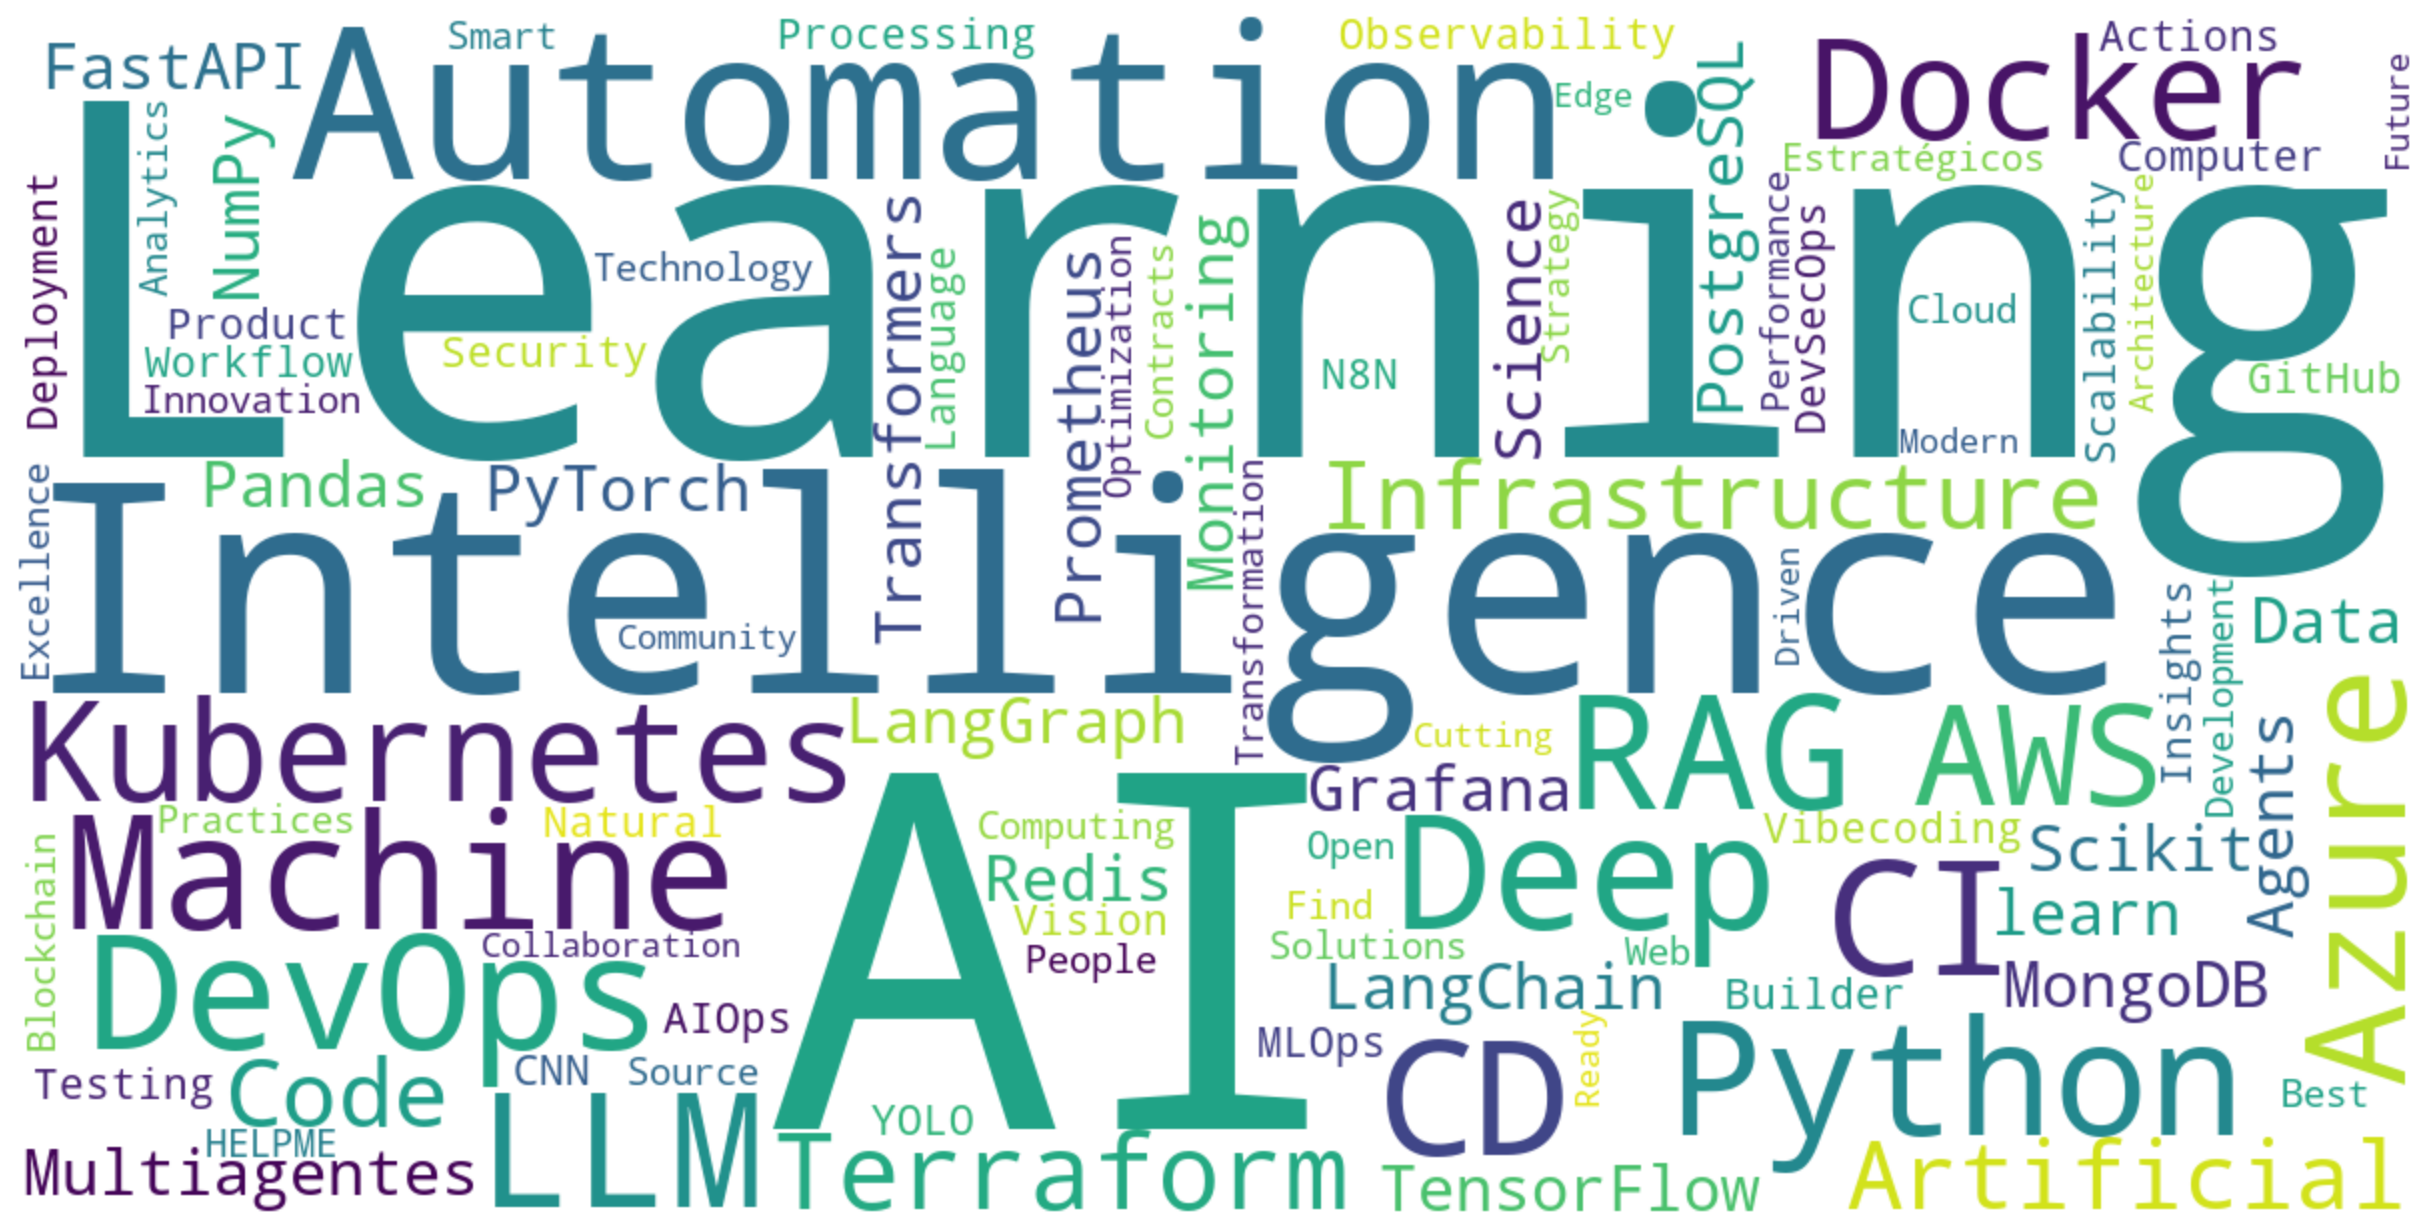
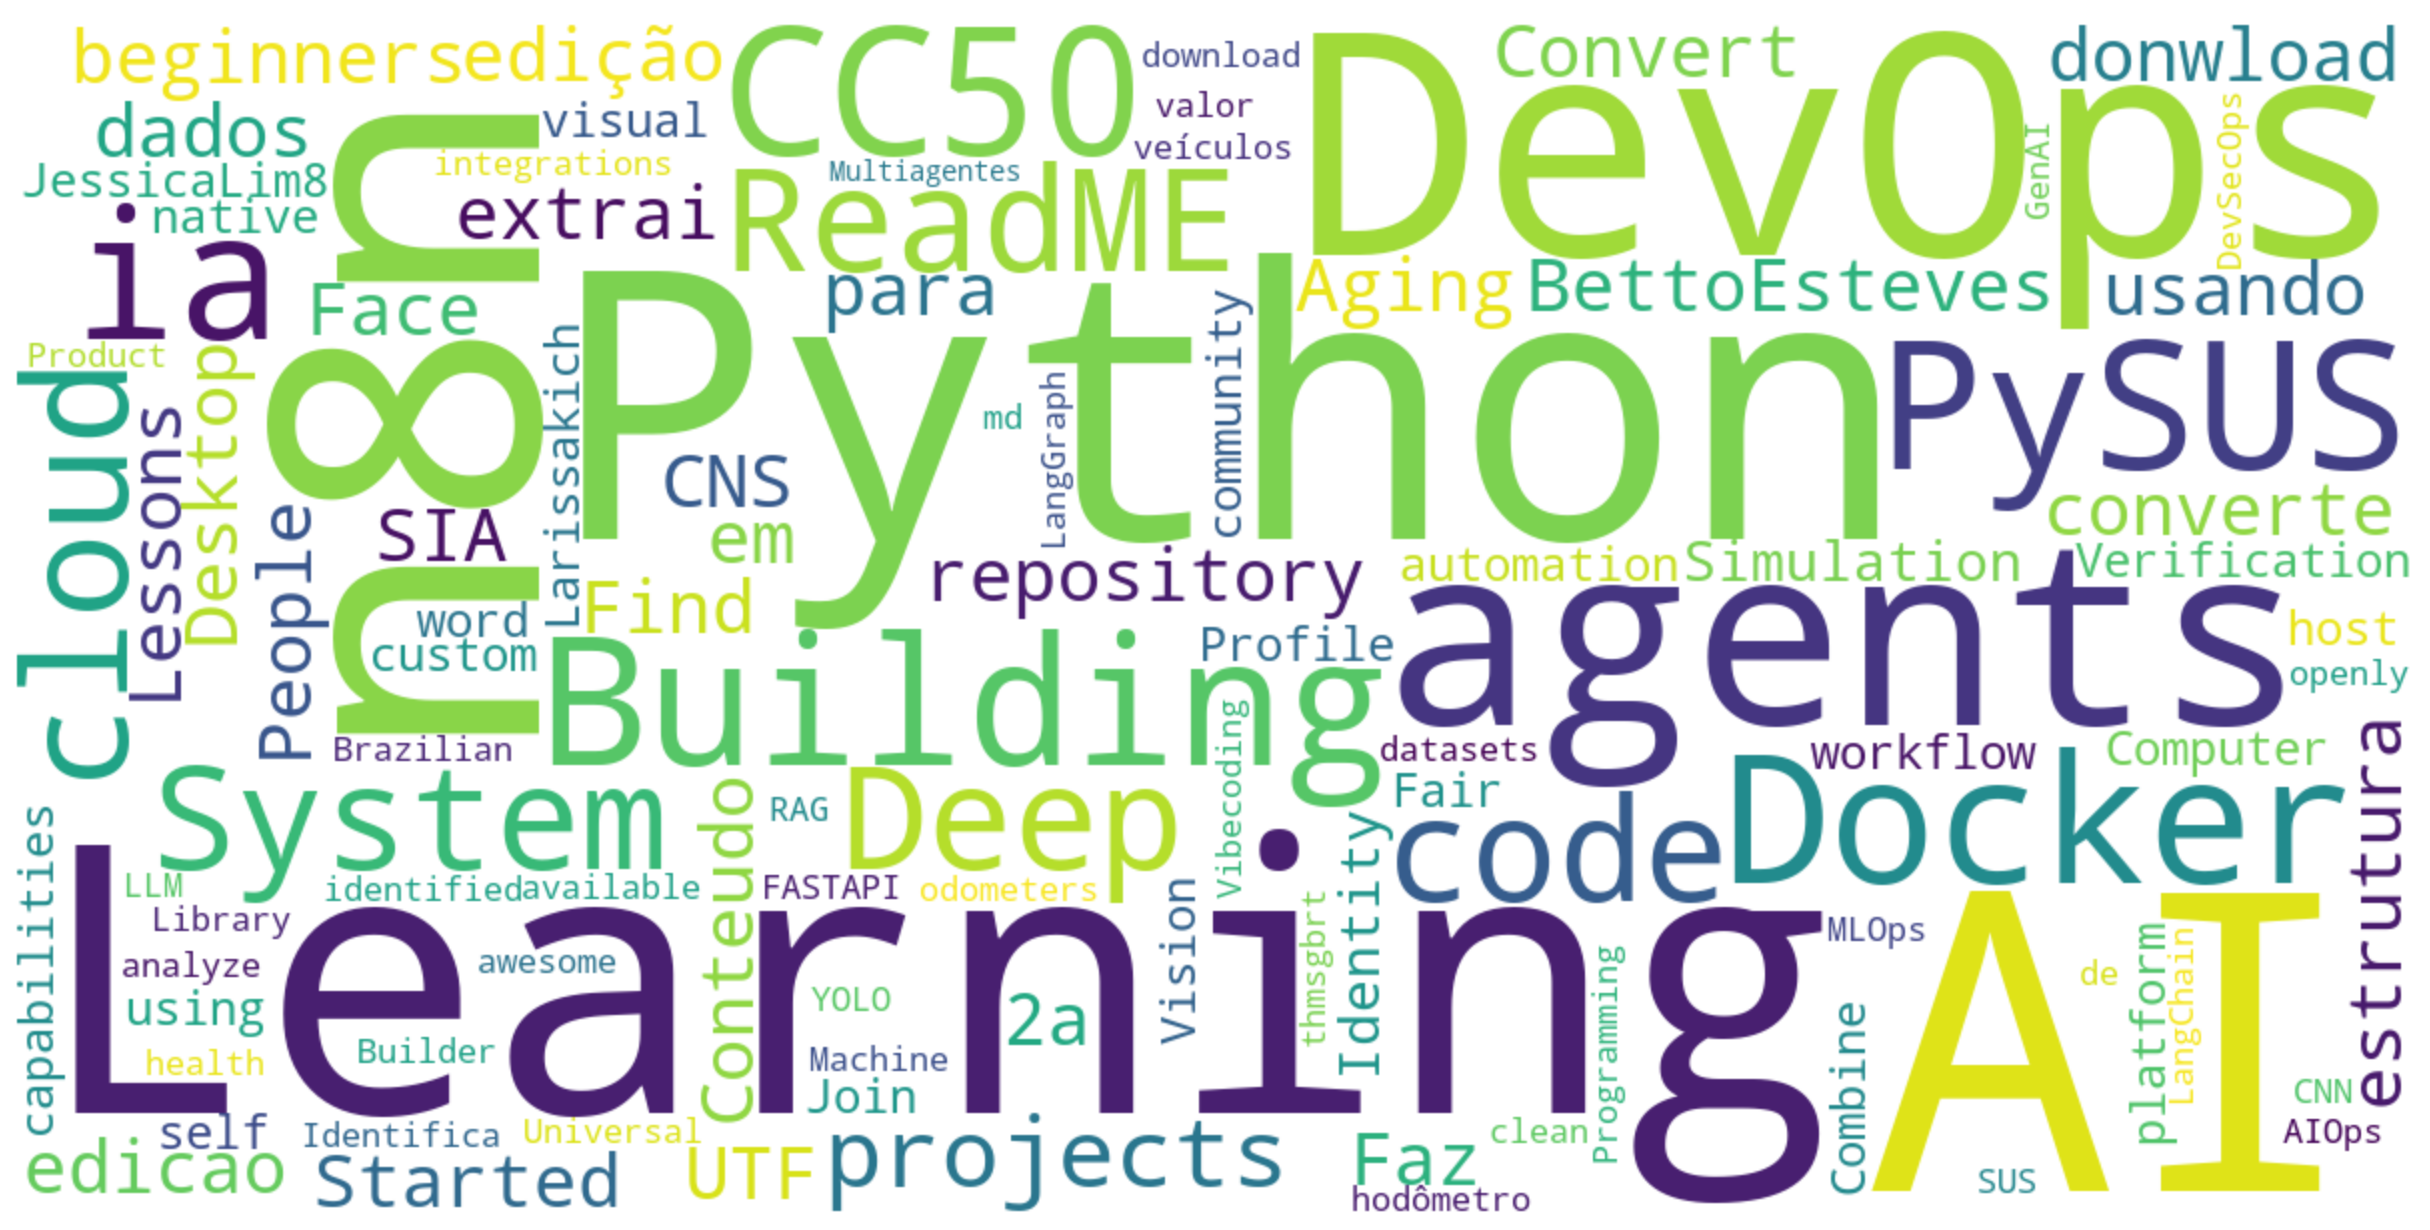
🤖 Script automático: word cloud dos repositórios públicos do GitHub

diff --git a/generate_github_wordcloud.py b/generate_github_wordcloud.py
@@ -1,0 +1,59 @@
+#!/usr/bin/env python3
+"""
+Gera uma word cloud com palavras-chave dos repositórios públicos do GitHub do usuário BettoEsteves.
+Busca nome, descrição, tópicos e linguagem de cada repositório.
+Salva a imagem em wordcloud/wordcloud.png no estilo do exemplo fornecido.
+"""
+import requests
+import os
+from wordcloud import WordCloud
+import matplotlib.pyplot as plt
+
+GITHUB_USER = "BettoEsteves"
+API_URL = f"https://api.github.com/users/{GITHUB_USER}/repos?per_page=100"
+
+# Buscar repositórios
+resp = requests.get(API_URL)
+repos = resp.json()
+
+keywords = []
+for repo in repos:
+    # Nome e descrição
+    if repo.get('name'): keywords.extend(repo['name'].split('-'))
+    if repo.get('description'): keywords.extend(repo['description'].split())
+    # Linguagem
+    if repo.get('language'): keywords.append(repo['language'])
+    # Tópicos (precisa de API extra, mas tentamos)
+    topics_url = repo.get('topics_url') or f"https://api.github.com/repos/{GITHUB_USER}/{repo['name']}/topics"
+    topics_resp = requests.get(topics_url, headers={"Accept": "application/vnd.github.mercy-preview+json"})
+    if topics_resp.status_code == 200:
+        topics = topics_resp.json().get('names', [])
+        keywords.extend(topics)
+
+# Palavras-chave extras para garantir destaque
+keywords.extend([
+    "AI", "GenAI", "LLM", "FASTAPI", "LangChain", "LangGraph", "CNN", "YOLO", "N8N", "Vibecoding", "AI Product Builder",
+    "Python", "Machine Learning", "Deep Learning", "DevOps", "MLOps", "AIOps", "DevSecOps", "RAG", "Multiagentes"
+])
+
+# Limpar e normalizar
+keywords = [k.strip().replace('_', ' ').replace('-', ' ') for k in keywords if k and len(k) > 1]
+text = ' '.join(keywords)
+
+# Gerar word cloud
+os.makedirs('wordcloud', exist_ok=True)
+wordcloud = WordCloud(
+    width=1200,
+    height=600,
+    background_color='white',
+    colormap='viridis',
+    relative_scaling=0.5,
+    min_font_size=10
+).generate(text)
+
+plt.figure(figsize=(16, 8))
+plt.imshow(wordcloud, interpolation='bilinear')
+plt.axis('off')
+plt.tight_layout(pad=0)
+plt.savefig('wordcloud/wordcloud.png', dpi=150, bbox_inches='tight')
+print("✅ Word Cloud gerada com sucesso em: wordcloud/wordcloud.png")
